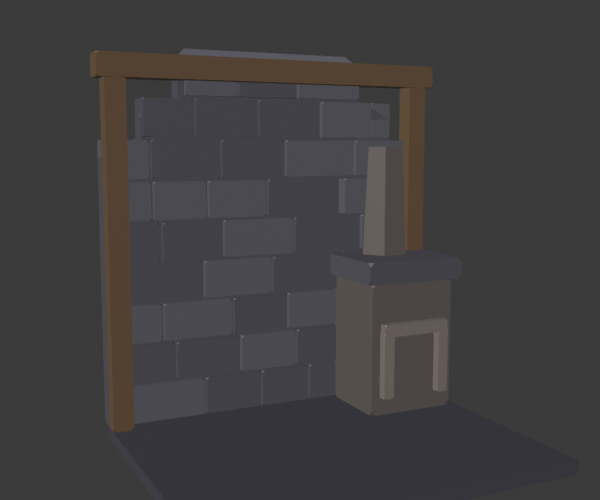
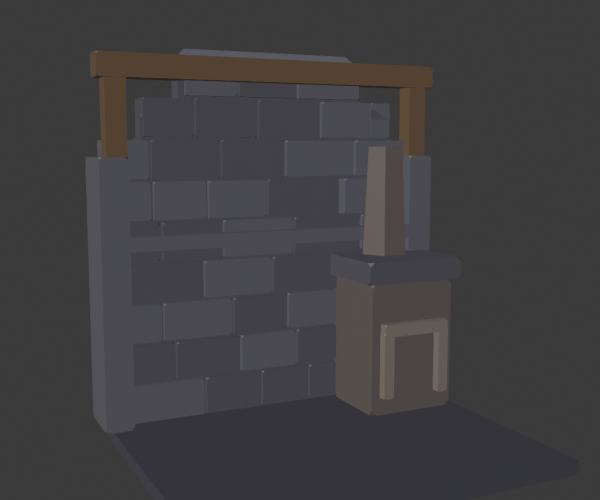
vault backup: 2026-11-28 20:43:00

Changed region(s): [[0.12, 0.3, 0.24, 0.87], [0.66, 0.3, 0.72, 0.51]]

diff --git a/GYM ARC/Art/GemMine/build_forge.py b/GYM ARC/Art/GemMine/build_forge.py
@@ -67,6 +67,9 @@ hull("StoneB", [R(sx * 4.2, 7.0, 6.0 + sz * 0.8) for sx in (-1, 1) for sz in (-1
 for sx in (-1, 1):  # sloped shoulders where each course steps in
     hull("StoneA", [R(sx * 7.0, 3.55, z) for z in (5.4, 6.6)] + [R(sx * 5.5, 3.55, z) for z in (5.4, 6.6)] + [R(sx * 5.5, 4.3, z) for z in (5.4, 6.6)])
     hull("StoneA", [R(sx * 5.5, 5.15, z) for z in (5.4, 6.6)] + [R(sx * 4.0, 5.15, z) for z in (5.4, 6.6)] + [R(sx * 4.0, 5.9, z) for z in (5.4, 6.6)])
+# (MAP-7: Gemini "horizontal stone ledge midway up", ChatGPT "two 0.6-stud-deep corner pilasters") ledge proud 0.6 of both faces
+cbox("StoneB", (0, 0.3, 6.0), (14.4, 0.55, 2.4), 0.12)
+for sx in (-1, 1): cbox("StoneB", (sx * 6.75, -1.65, 6.0), (1.1, 10.5, 2.4), 0.12)
 # timber
 for px in (6.6, -6.6): cbox("Wood", (px, 0.08, 5.3), (0.8, 14, 0.8), 0.12)
 cbox("Wood", (0, 6.98, 5.3), (14.6, 0.9, 1.0), 0.12)
